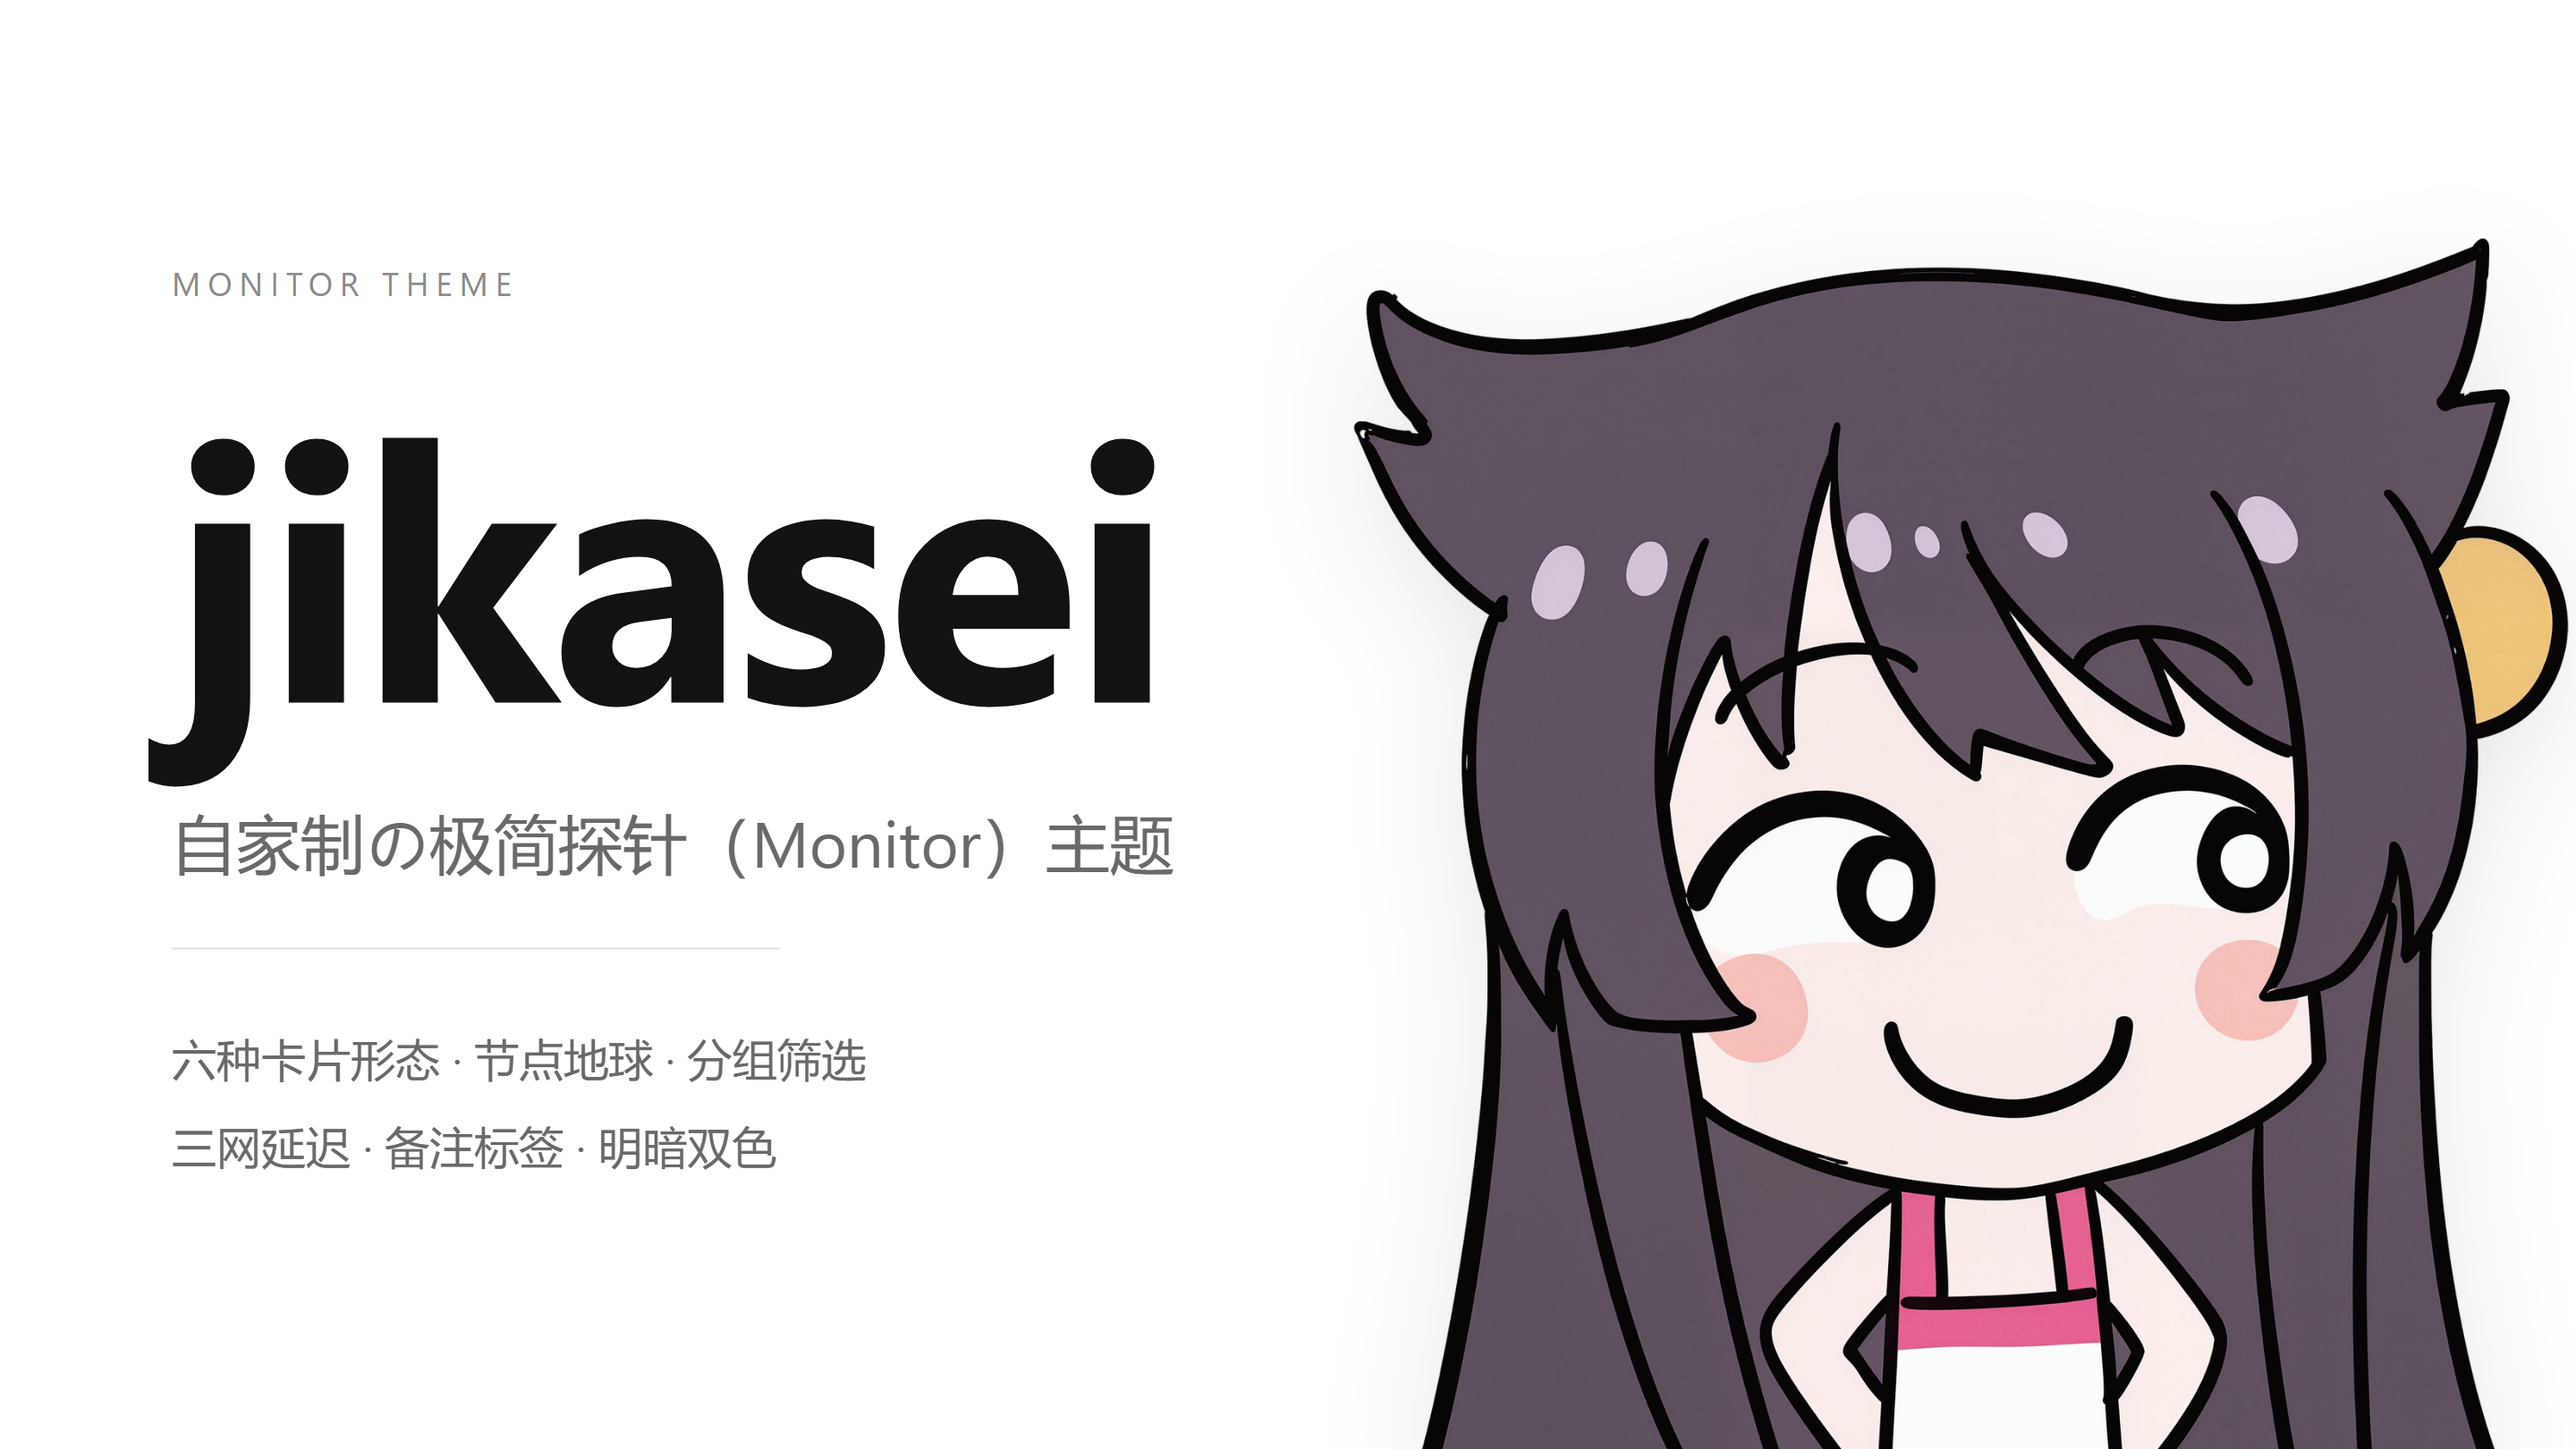
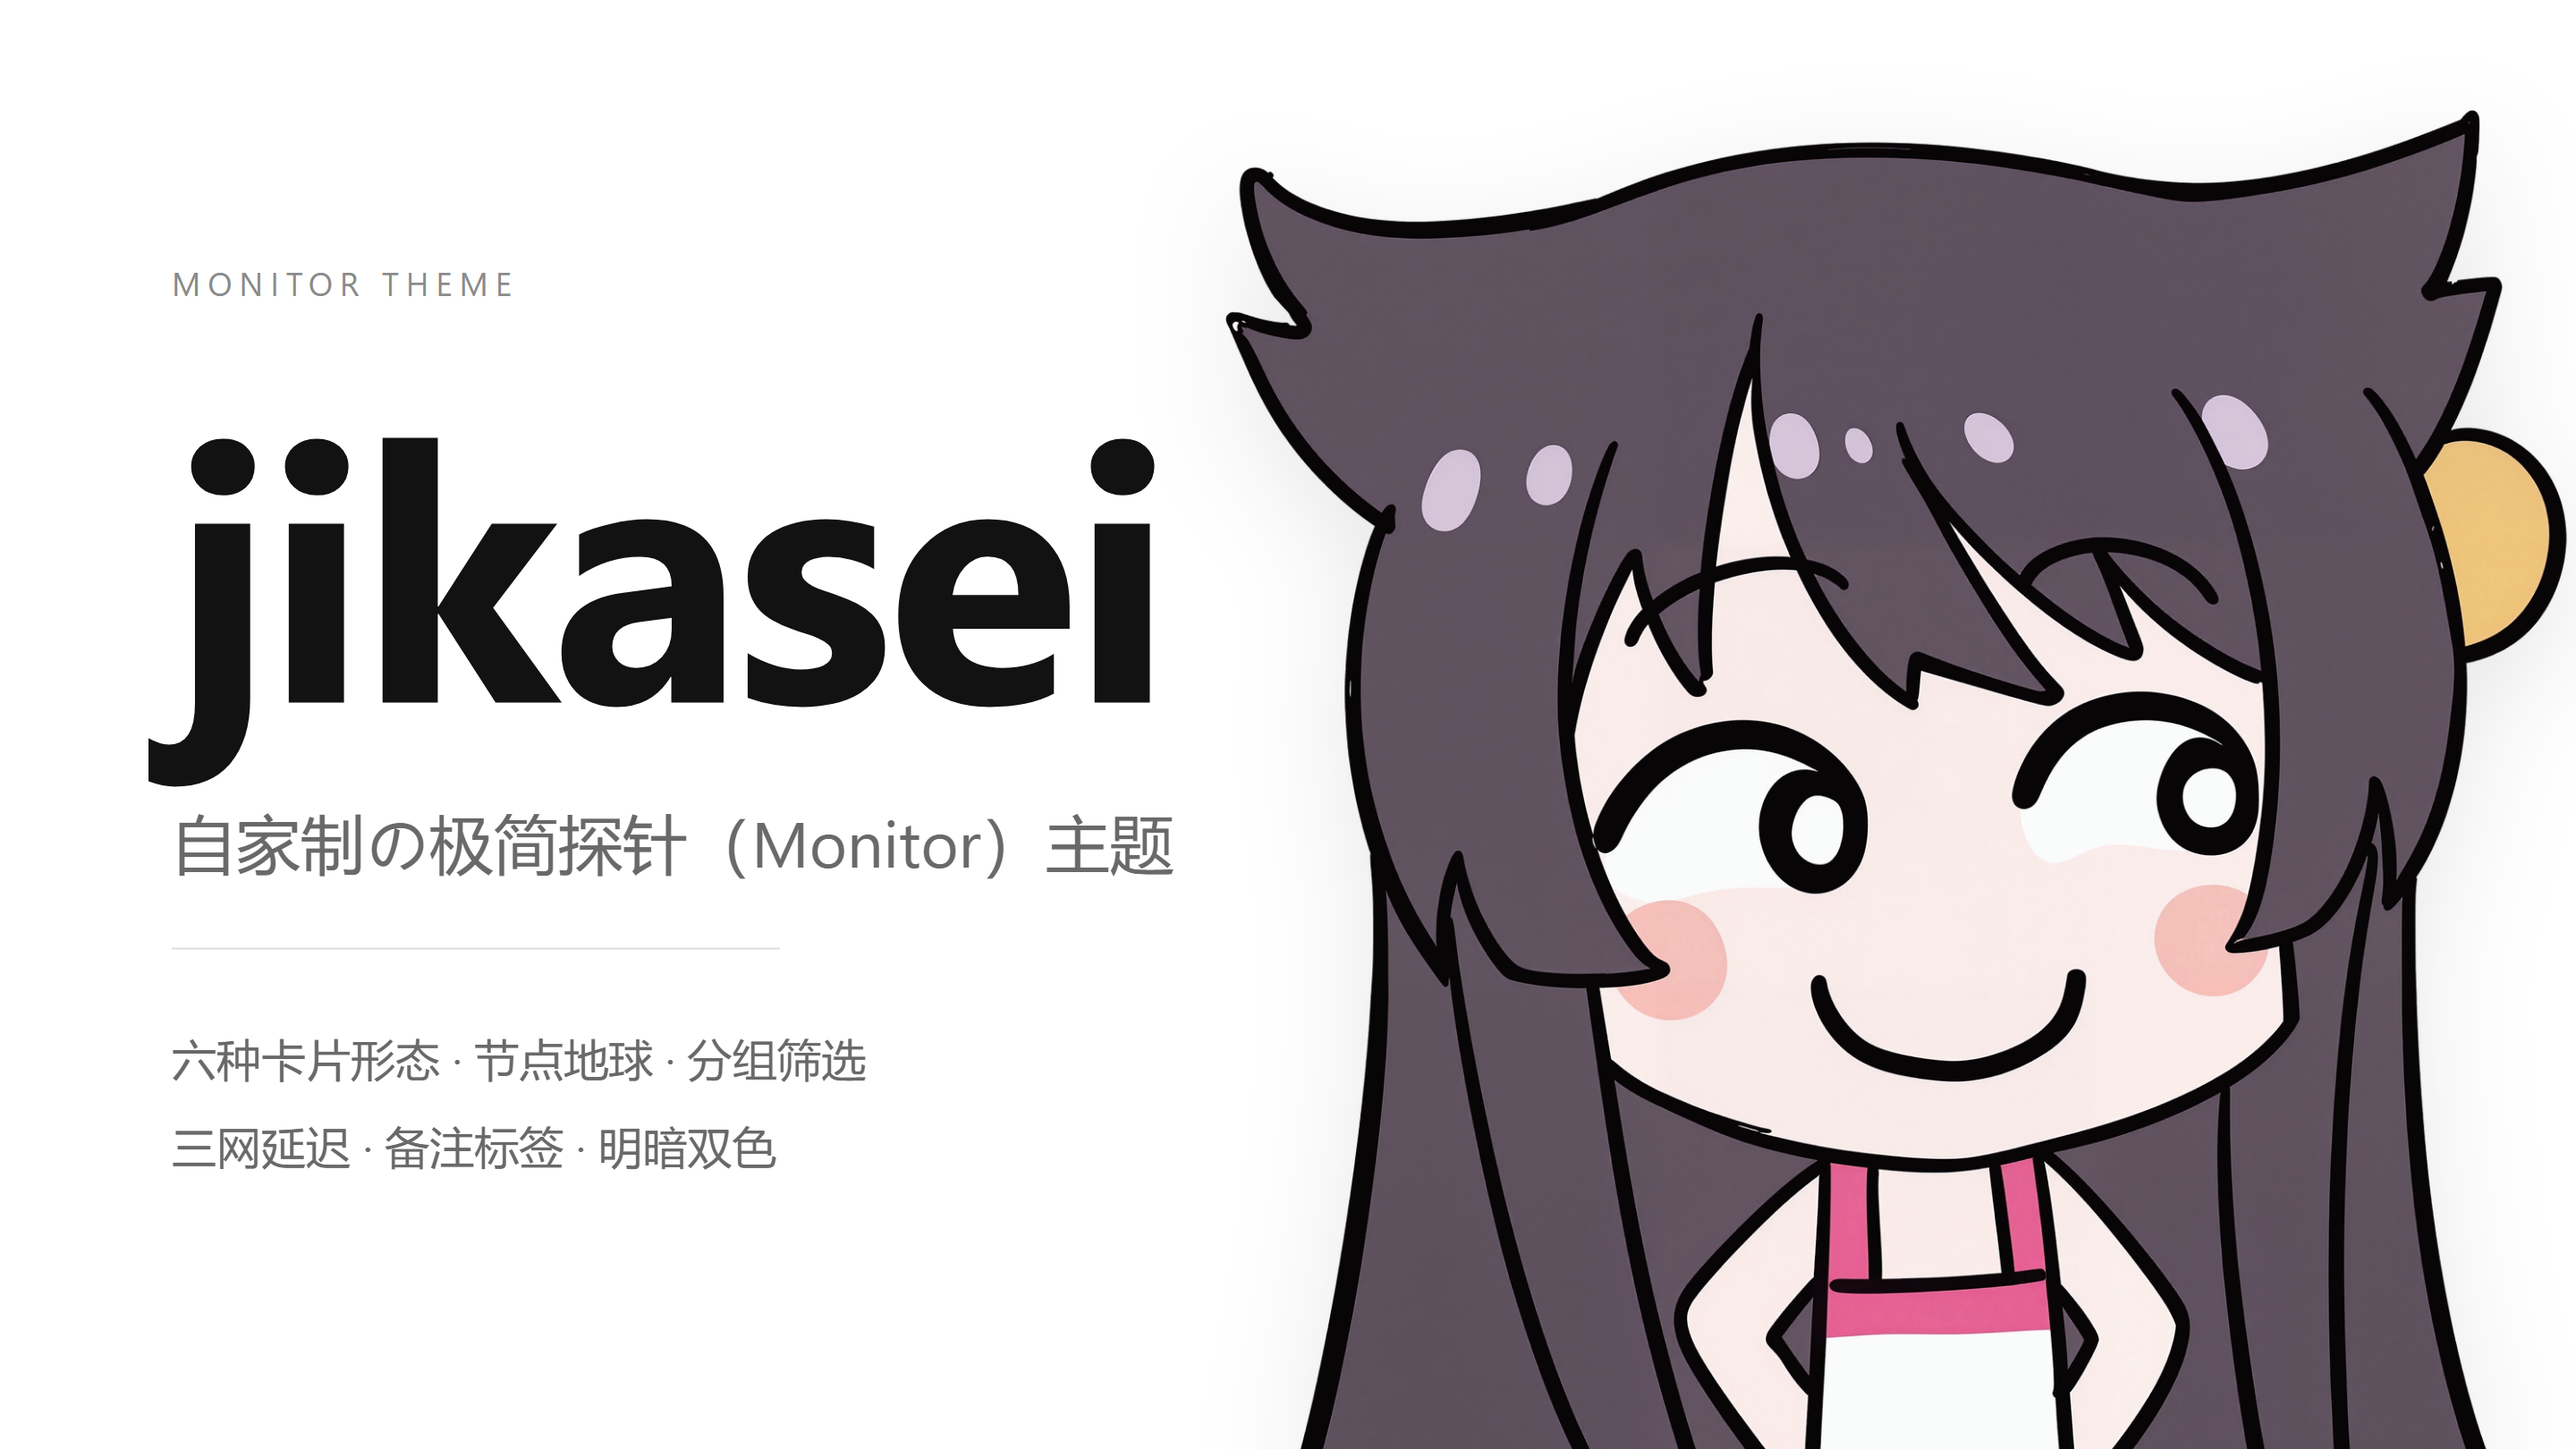
1.32.1：面板预览图人物放大一档，与 kanso 封面同视觉高度（实测头顶 y=123、可见高 1497px @2x 零差；ch 700→773）；README 预览图 ?v=4

Changed region(s): [[0.4688, 0.0617, 1.0, 1.0]]

diff --git a/README.md b/README.md
@@ -1,6 +1,6 @@
 # jikasei
 
-![jikasei](preview.png?v=3)
+![jikasei](preview.png?v=4)
 
 极简探针（[Monitor](https://github.com/monitor-probe/monitor)）的第三方主题，源码基于上游默认主题
 `monitor-theme-default` v1.1.0 改造。纯静态前端，只读 hub 的公开接口，
